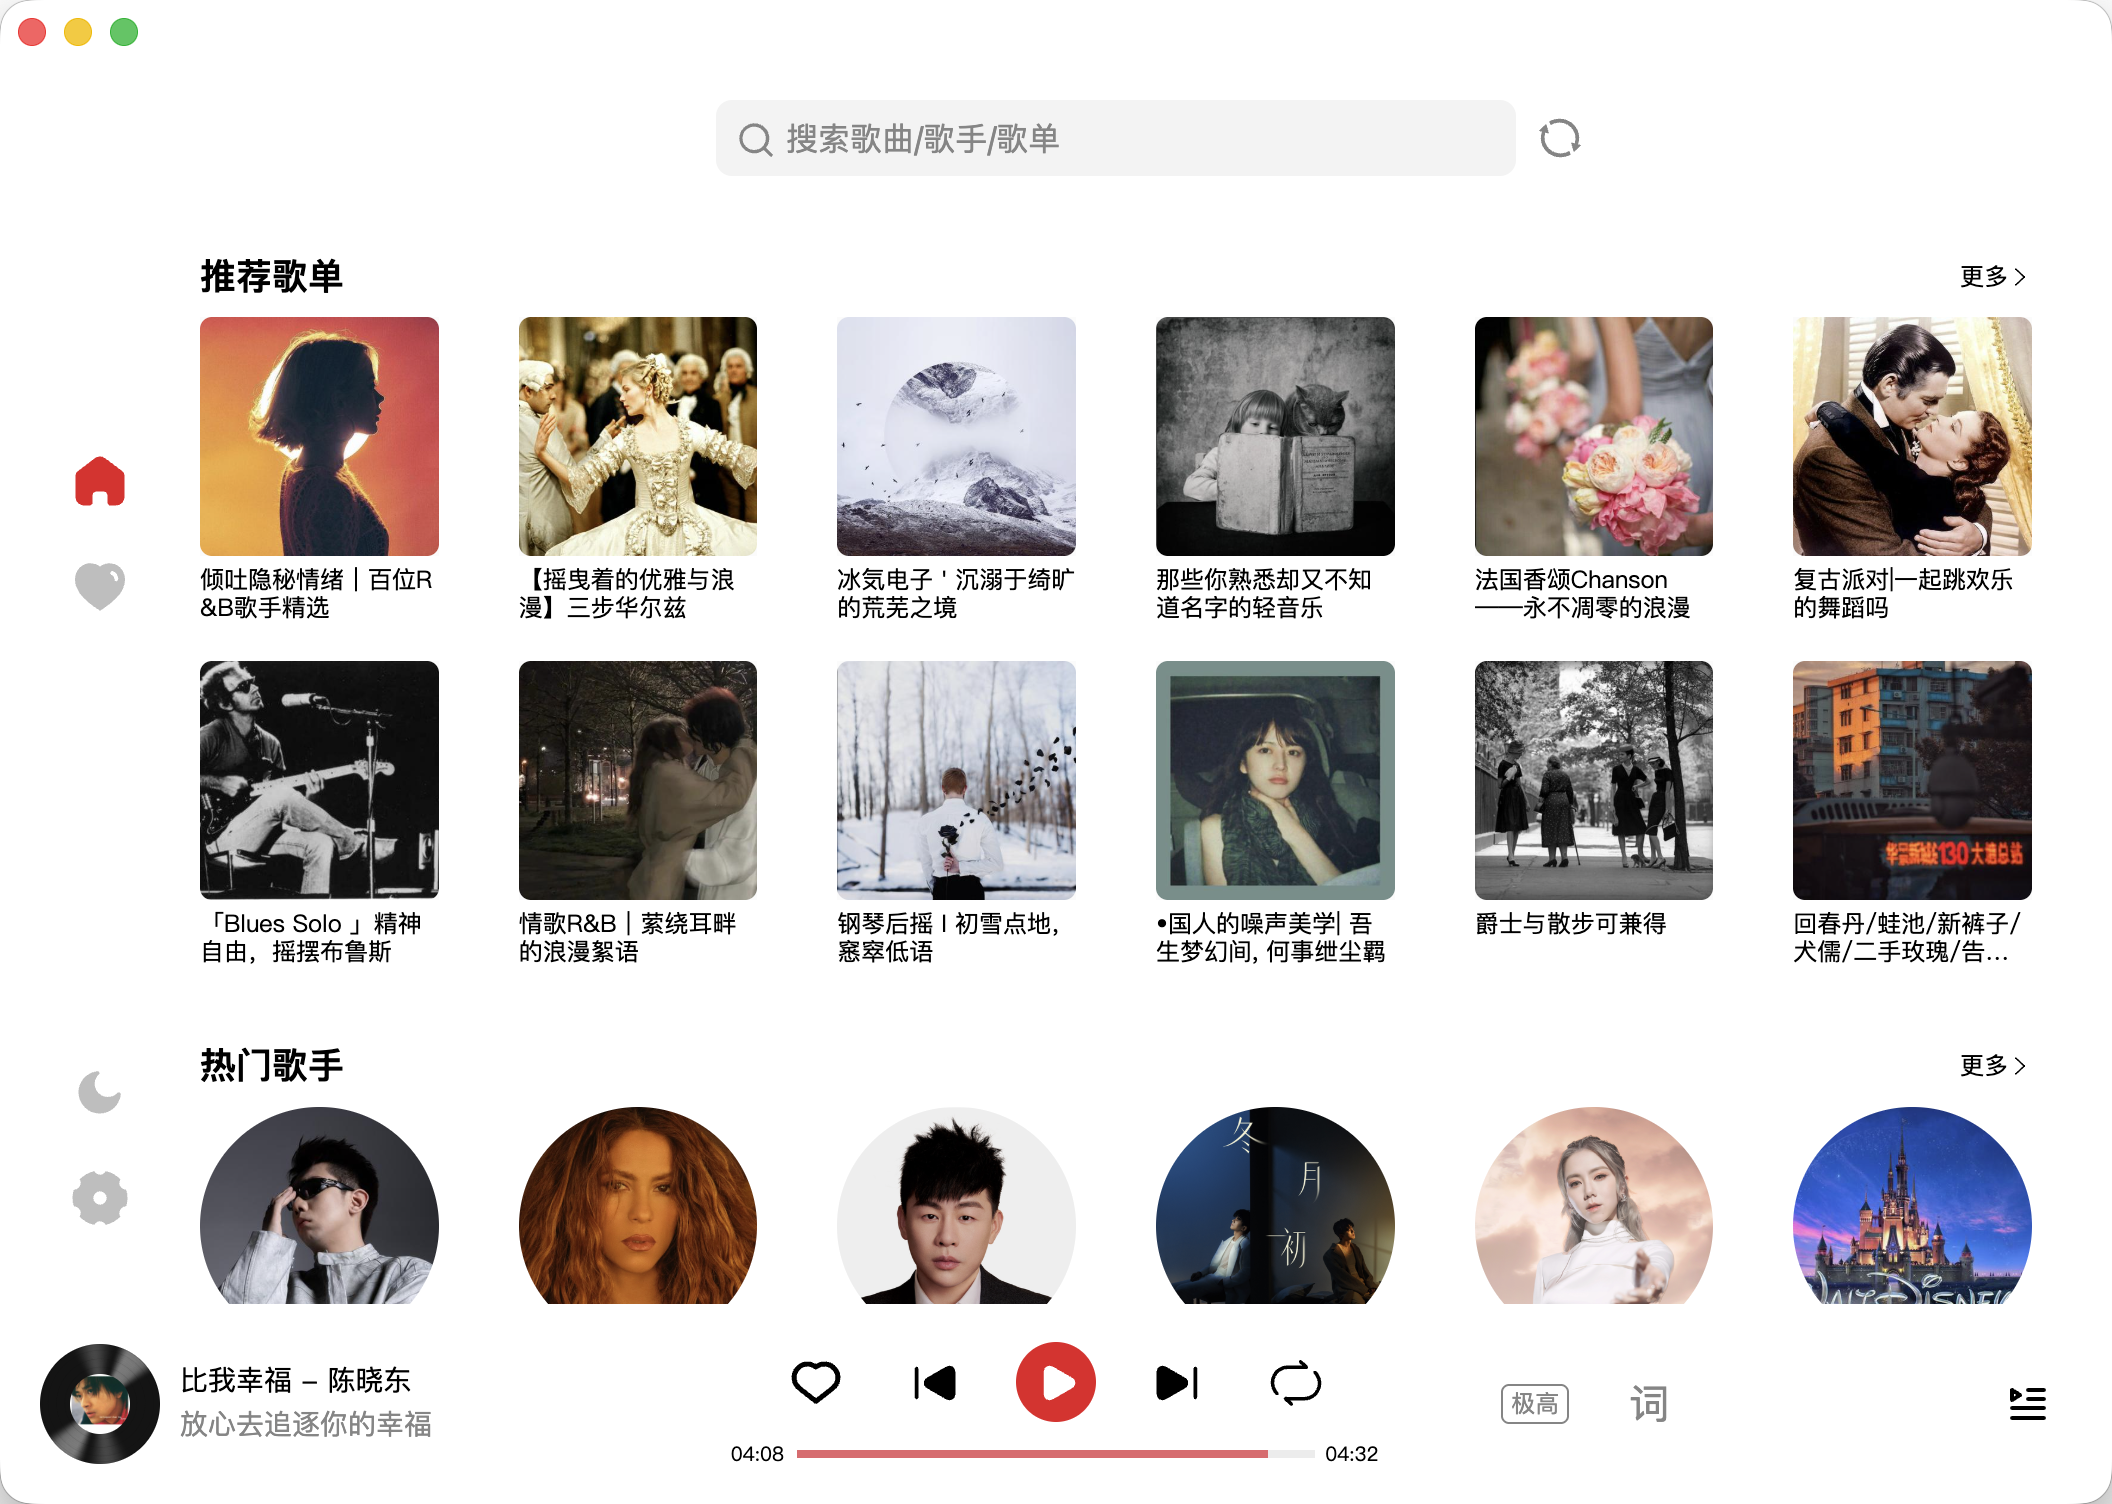
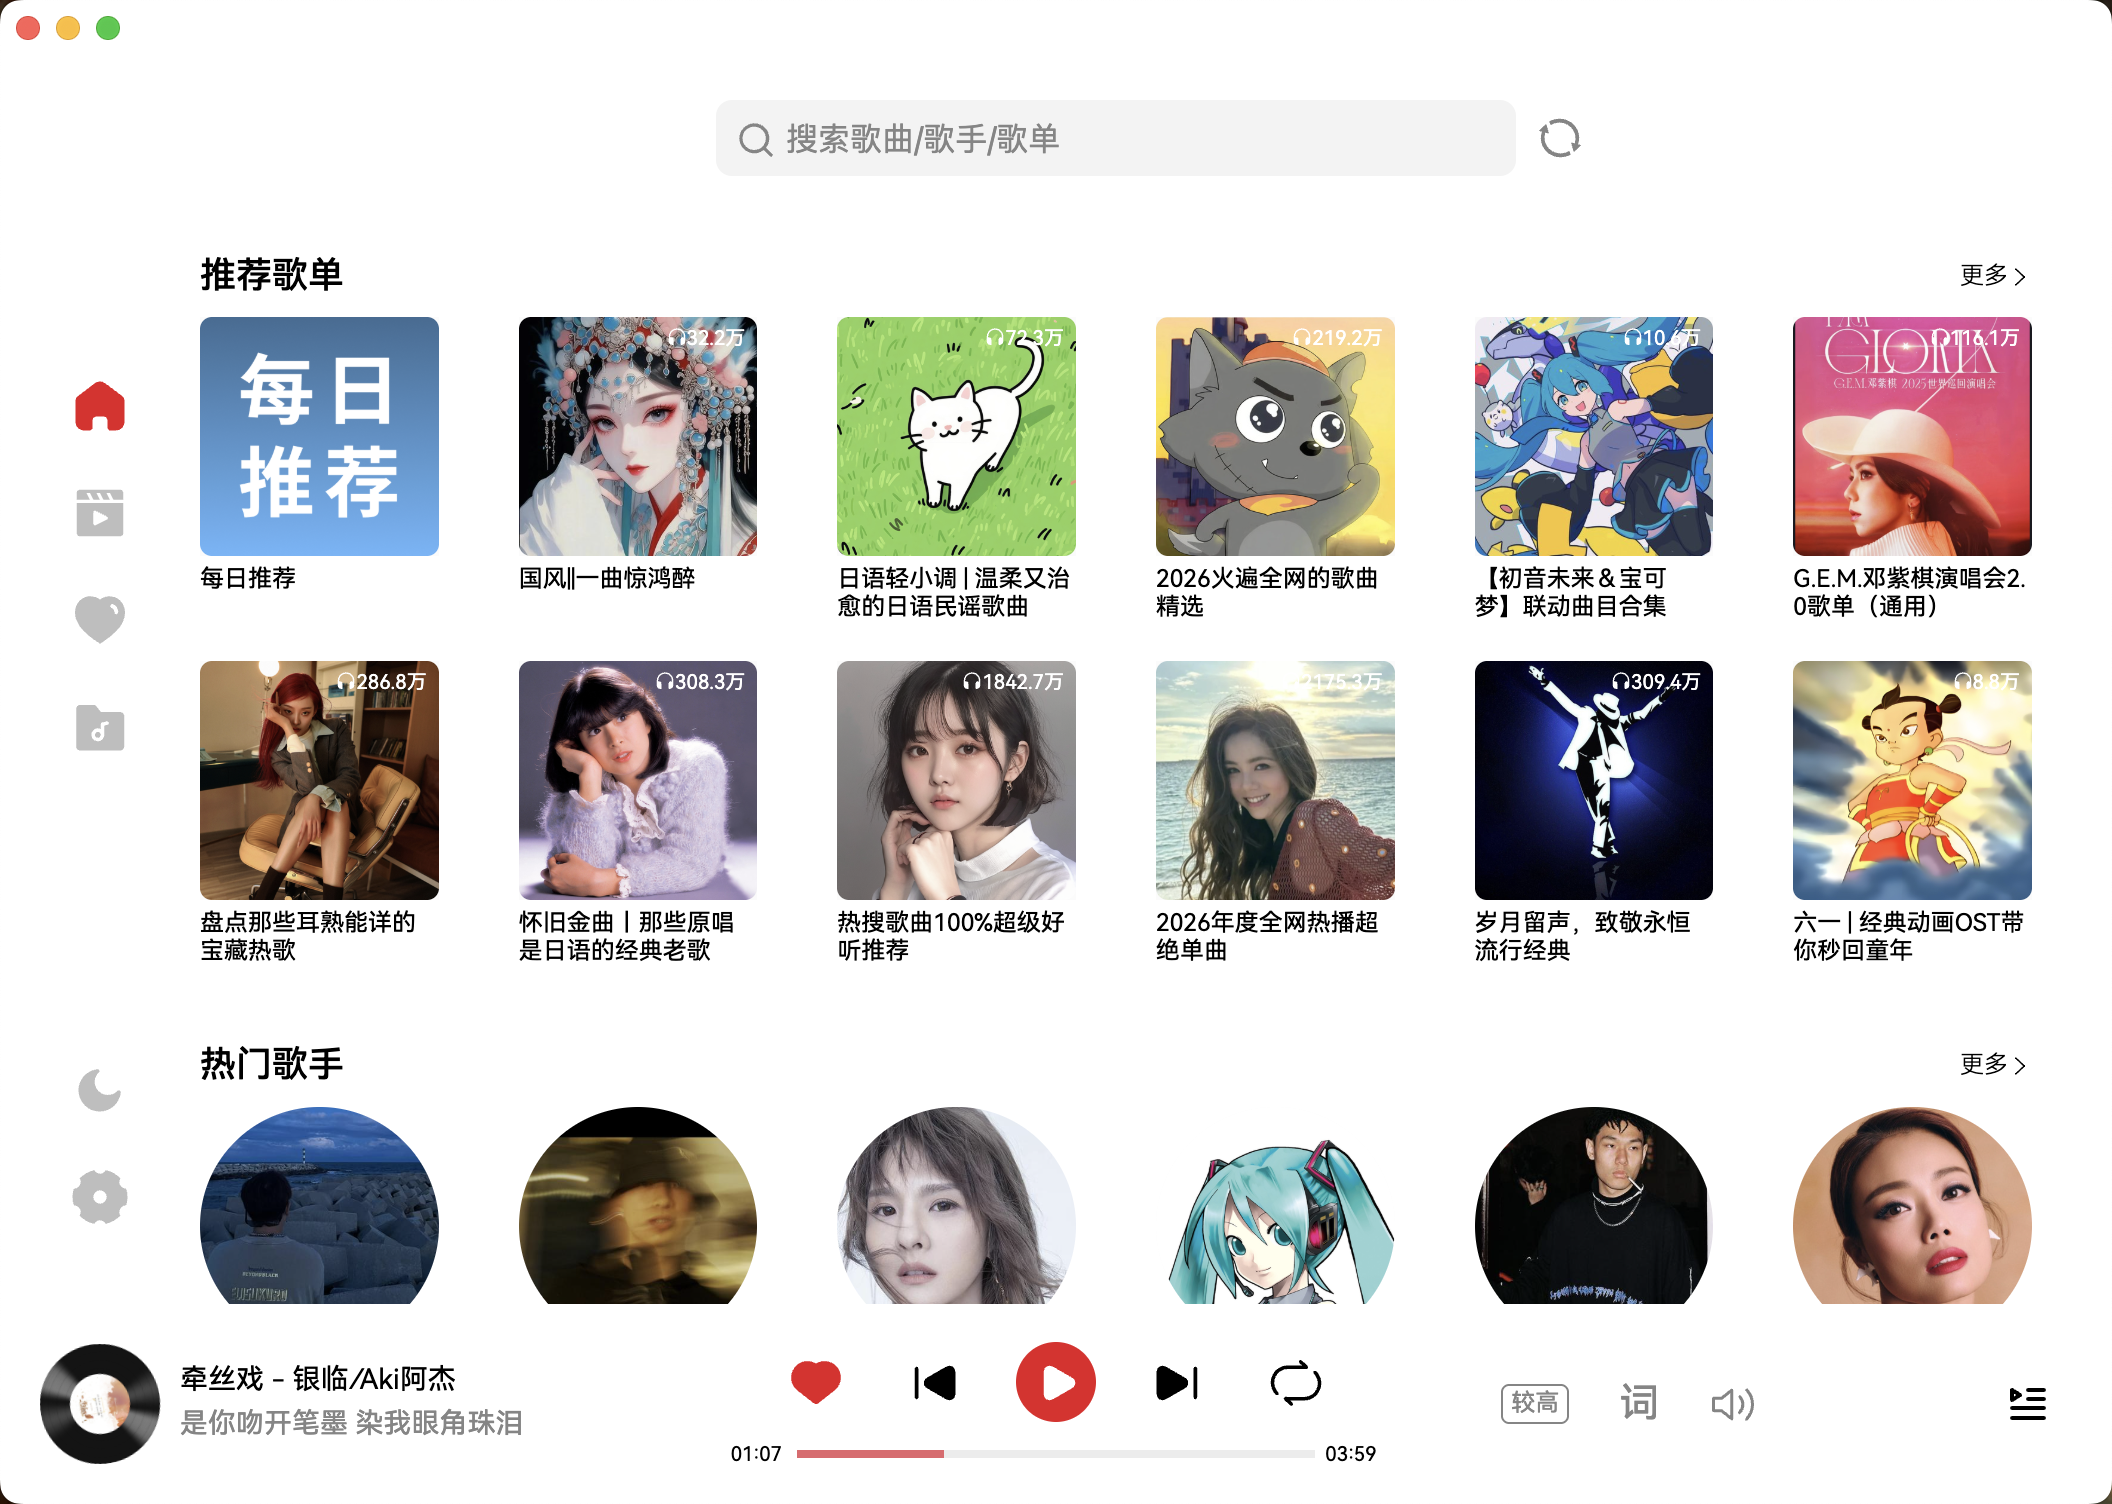
v1.5.0

diff --git a/src/renderer/src/page/main/setting/index.vue b/src/renderer/src/page/main/setting/index.vue
@@ -199,9 +199,7 @@ function checkVersion() {
               </div>
             </div>
             <div class="item">
-              <a-checkbox v-model:checked="form.downloadLyric">
-                同时下载歌词文件
-              </a-checkbox>
+              <a-checkbox v-model:checked="form.downloadLyric"> 同时下载歌词文件 </a-checkbox>
             </div>
           </div>
         </div>
@@ -268,7 +266,7 @@ function checkVersion() {
             <div class="item">
               <div class="item-title">版本:</div>
               <div class="item-content">
-                v1.4.1 <a-button @click="checkVersion">检查更新</a-button>
+                v1.5.0 <a-button @click="checkVersion">检查更新</a-button>
               </div>
             </div>
             <div class="item">

diff --git a/README.md b/README.md
@@ -18,14 +18,17 @@
 ✅ 沉浸式播放界面  
 ✅ 桌面歌词 卡拉OK歌词（逐字歌词）  
 ✅ 账号登录  
-🚫 本地音乐
+✅ 本地音乐
 
 ## 运行截图
 
 ![首页白](./docs/screens/home1.png)
 ![首页黑](./docs/screens/home2.png)
-![歌单](./docs/screens/songlist.png)  
 ![播放器](./docs/screens/player.png)
+![歌单](./docs/screens/playlist.png)  
+![MV](./docs/screens/mv.png)  
+![收藏](./docs/screens/love.png)  
+![本地音乐](./docs/screens/local.png)
 
 ## 开发
 
